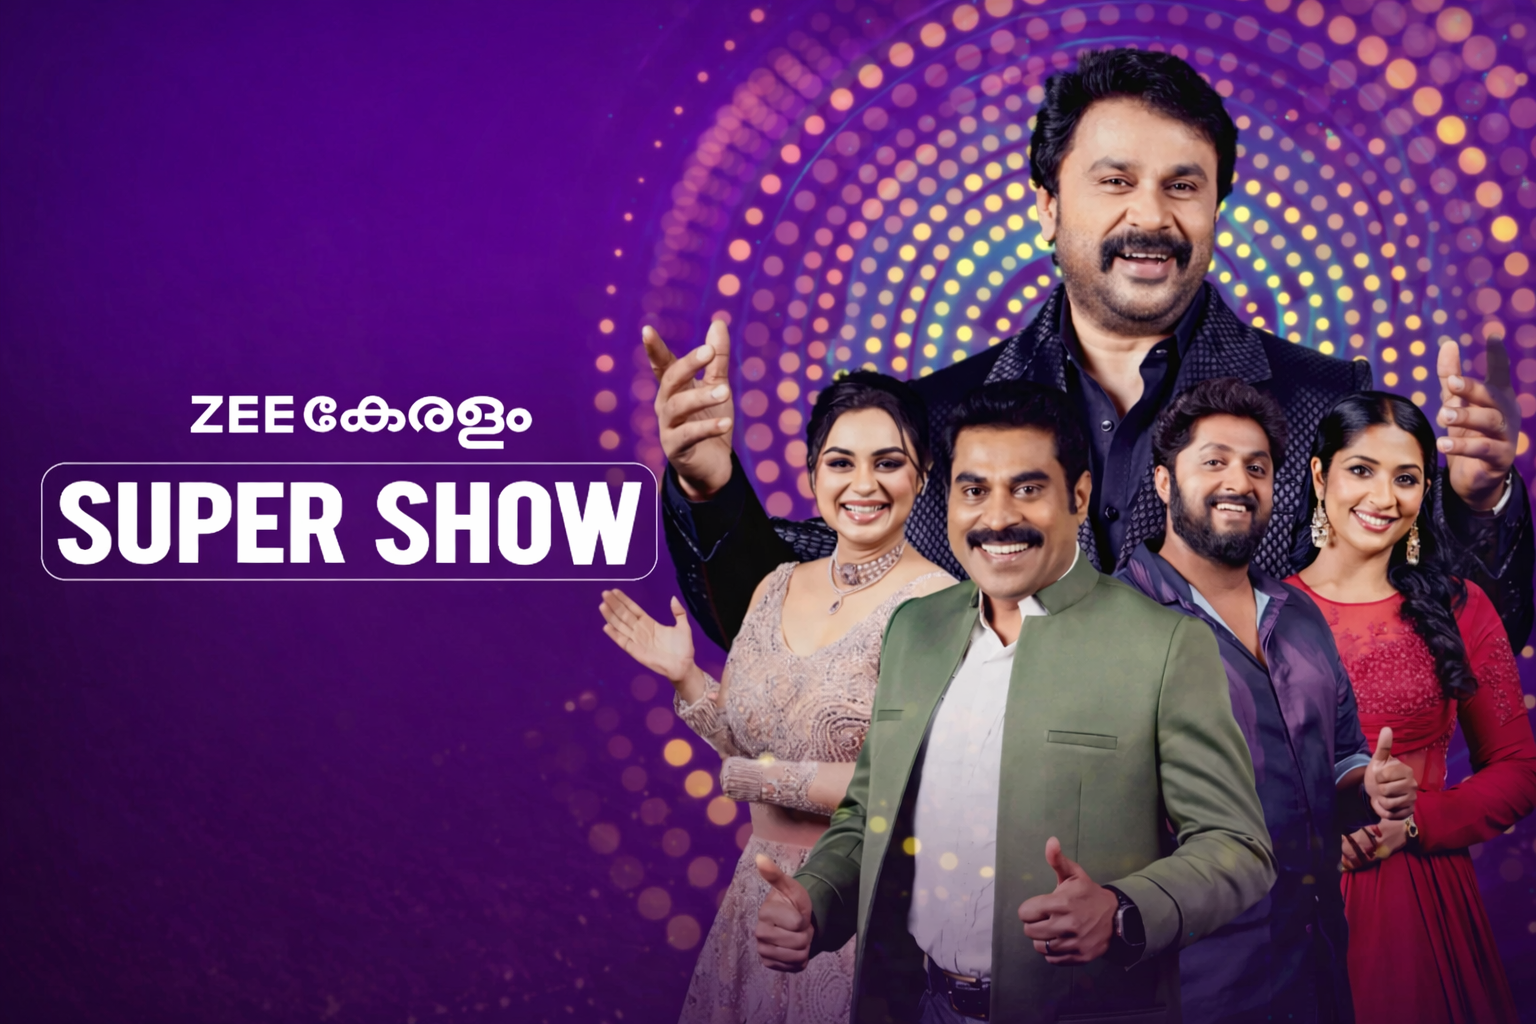
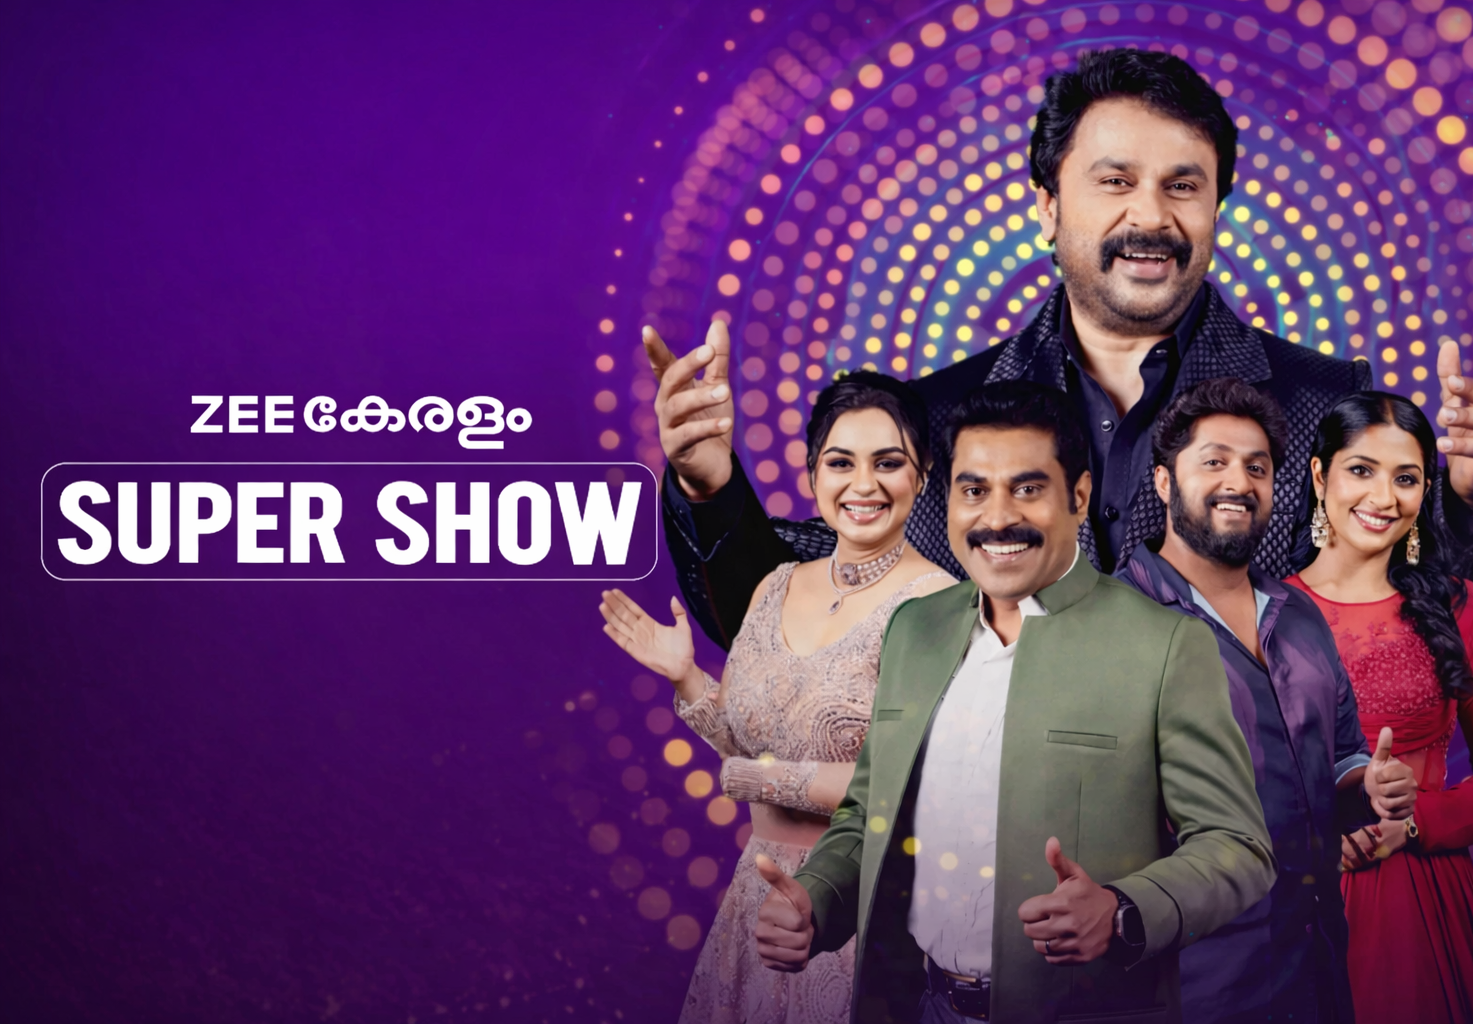
Changed image

diff --git a/src/components/Marquee.jsx b/src/components/Marquee.jsx
@@ -1,34 +1,28 @@
 import React from "react";
 import { motion } from "framer-motion";
+import { NETWORKS } from "../constants/data";
 
 const Marquee = () => {
-  const networks = [
-    "FLOWERS TV",
-    "ZEE KERALAM",
-    "MAZHAVIL MANORAMA",
-    "ASIANET",
-    "SONY MEDIA",
-    "FLOWERS TV",
-    "ZEE KERALAM",
-    "MAZHAVIL MANORAMA",
-    "ASIANET",
-    "SONY MEDIA",
-  ];
+  // Double the networks for seamless loop
+  const displayNetworks = [...NETWORKS, ...NETWORKS];
 
   return (
     <div className="py-12 md:py-20 bg-black overflow-hidden border-y border-white/5 select-none">
       <motion.div
         animate={{ x: ["0%", "-50%"] }}
         transition={{ repeat: Infinity, duration: 30, ease: "linear" }}
-        className="flex whitespace-nowrap gap-12 md:gap-20 items-center"
+        className="flex whitespace-nowrap gap-12 md:gap-20 items-center w-max"
       >
-        {networks.map((net, i) => (
-          <span
+        {displayNetworks.map((net, i) => (
+          <a
             key={i}
-            className="text-3xl sm:text-5xl md:text-8xl font-serif font-black text-white/5 hover:text-amber-500/20 transition-colors uppercase italic tracking-tighter"
+            href={net.url}
+            target="_blank"
+            rel="noopener noreferrer"
+            className="text-3xl sm:text-5xl md:text-8xl font-serif font-black text-white/30 hover:text-amber-500 transition-colors uppercase italic tracking-tighter"
           >
-            {net}
-          </span>
+            {net.name}
+          </a>
         ))}
       </motion.div>
     </div>

diff --git a/src/constants/data.js b/src/constants/data.js
@@ -92,4 +92,12 @@ export const EXPERTISE = [
   { title: "Talent Mentorship", tags: ["Performance Coaching", "Celebrity Management", "Masterclasses"] }
 ];
 
+export const NETWORKS = [
+  { name: "FLOWERS TV", url: "https://www.flowerstv.in/" },
+  { name: "ZEE KERALAM", url: "https://www.zee5.com/tv-shows/zee-keralam-hd/0-9-129" },
+  { name: "MAZHAVIL MANORAMA", url: "https://www.manoramamax.com/" },
+  { name: "ASIANET", url: "https://www.asianetnews.com/" },
+  { name: "SONY MEDIA", url: "https://www.sonypictures.com/" }
+];
+
 

diff --git a/src/components/Vision.jsx b/src/components/Vision.jsx
@@ -57,7 +57,7 @@ const Vision = ({ pillars }) => {
           whileInView={{ opacity: 1 }}
           className="mt-16 md:mt-32 text-center"
         >
-          <p className="text-3xl sm:text-5xl md:text-8xl font-serif font-black text-white/5 italic select-none">
+          <p className="text-3xl sm:text-5xl md:text-8xl font-serif font-black text-white/30 italic select-none">
             IDEATE • INNOVATE • IMPACT
           </p>
         </motion.div>

diff --git a/src/components/Navbar.jsx b/src/components/Navbar.jsx
@@ -13,7 +13,7 @@ const Navbar = () => {
           animate={{ opacity: 1 }}
           className="text-xl font-serif font-black tracking-tighter text-white"
         >
-          ANOOP JOHN<span className="text-amber-500">.</span>
+          ANOOP JOHN
         </motion.div>
 
         <div className="flex gap-12 items-center">

diff --git a/src/components/Hero.jsx b/src/components/Hero.jsx
@@ -15,7 +15,7 @@ const Hero = () => {
         className="absolute inset-0 z-0"
       >
         <img
-          src="/hero_image.png"
+          src="/Anoop_john.png"
           className="w-full h-full object-cover object-[20%_center] md:object-[15%_center] brightness-[0.9]"
           alt="Hero Cinematic"
         />
